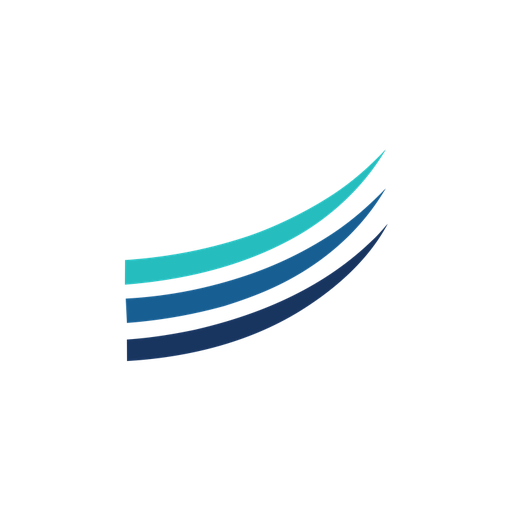
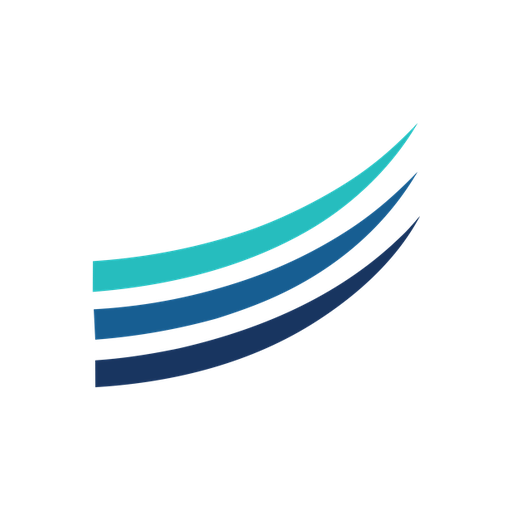
Auf dem Startbildschirm steht jetzt Curamus Medical
Beim Ablegen auf dem Handy hiess die App "Patientenbereich" - der Name des
Bereichs statt der Praxis. Jetzt heisst sie ueberall Curamus Medical, mit
einer Beschreibung, die auch etwas sagt: mobile Physiotherapie in Nuernberg,
Termine, Rezept, Trainingsplan, Nachrichten und die Live-Anfahrt.

Die Bildmarke war im App-Symbol zu klein. Sie fuellt jetzt 90 Prozent der
Kante statt gut 70; beim maskable-Symbol bleibt sie in der sicheren Zone,
weil Android rund beschneidet. Alle vier Groessen neu erzeugt.

Neu an Metadaten: Vorschaubild fuer geteilte Links (1200x630, im Markenlook
und in der Hausschrift gesetzt), Open Graph und Twitter Card, kanonische
Adresse, Schlagworte, Herausgeber, Kategorie Gesundheit, Themenfarbe getrennt
fuer helle und dunkle Systeme.

Zwei bewusste Entscheidungen: Der Bereich steht auf noindex - ein
persoenlicher Bereich mit Gesundheitsdaten gehoert nicht in Suchmaschinen,
die Startseite von curamus-medical.de bleibt davon unberuehrt. Und kein
maximumScale, damit die Zielgruppe 70+ weiter zoomen kann.

Dazu Schnellzugriffe beim langen Druecken auf das Symbol: Termine, Training,
Nachrichten. Und Telefonnummern werden nicht mehr automatisch verlinkt, das
zerschoss auf dem iPhone die Darstellung von Terminen und Anschriften.

Claude-Session: https://claude.ai/code/session_015crEXq5GjAPSz1wYpUbYwK

diff --git a/src/app/layout.tsx b/src/app/layout.tsx
@@ -9,21 +9,99 @@ const poppins = Poppins({
   variable: "--font-poppins",
 });
 
+/** Eine Stelle für die Adresse – Vorschaubilder brauchen absolute Links. */
+const ADRESSE = "https://app.curamus-medical.de";
+
+const BESCHREIBUNG =
+  "Der persönliche Bereich für Patientinnen und Patienten von Curamus Medical, " +
+  "der mobilen Physiotherapie in Nürnberg: Termine vereinbaren, Rezept einreichen, " +
+  "Trainingsplan ansehen, mit der Praxis schreiben – und live sehen, wann der " +
+  "Therapeut zum Hausbesuch eintrifft.";
+
 export const metadata: Metadata = {
-  title: { default: "Curamus Medical – Patientenbereich", template: "%s · Curamus Medical" },
-  description:
-    "Ihr persönlicher Bereich bei Curamus Medical: Termine anfragen, Trainingsplan ansehen und Nachrichten an Ihren Therapeuten senden.",
+  metadataBase: new URL(ADRESSE),
+  applicationName: "Curamus Medical",
+  title: { default: "Curamus Medical", template: "%s · Curamus Medical" },
+  description: BESCHREIBUNG,
+  keywords: [
+    "Physiotherapie",
+    "Hausbesuch",
+    "Nürnberg",
+    "mobile Physiotherapie",
+    "Termin vereinbaren",
+    "Trainingsplan",
+    "Curamus Medical",
+  ],
+  authors: [{ name: "Curamus Medical", url: "https://www.curamus-medical.de" }],
+  creator: "Curamus Medical",
+  publisher: "Curamus Medical · Charles Obinna Mba",
+  category: "health",
   manifest: "/manifest.webmanifest",
+  alternates: { canonical: "/" },
+
+  // Persönlicher Bereich mit Gesundheitsdaten: gehört nicht in Suchmaschinen.
+  // Die Startseite von curamus-medical.de bleibt davon unberührt.
+  robots: {
+    index: false,
+    follow: false,
+    nocache: true,
+    googleBot: { index: false, follow: false },
+  },
+
+  // Telefonnummern und Adressen nicht automatisch verlinken – das zerschießt
+  // sonst die Darstellung von Terminen und Anschriften auf dem iPhone.
+  formatDetection: { telephone: false, email: false, address: false },
+
+  openGraph: {
+    type: "website",
+    locale: "de_DE",
+    siteName: "Curamus Medical",
+    url: ADRESSE,
+    title: "Curamus Medical – Physiotherapie, die zu Ihnen nach Hause kommt",
+    description: BESCHREIBUNG,
+    images: [
+      {
+        url: "/og-bild.jpg",
+        width: 1200,
+        height: 630,
+        alt: "Curamus Medical – Physiotherapie, die zu Ihnen nach Hause kommt",
+      },
+    ],
+  },
+
+  twitter: {
+    card: "summary_large_image",
+    title: "Curamus Medical – Physiotherapie, die zu Ihnen nach Hause kommt",
+    description: BESCHREIBUNG,
+    images: ["/og-bild.jpg"],
+  },
+
+  // Auf dem Startbildschirm steht der Name der Praxis, nicht der des Bereichs
+  appleWebApp: {
+    capable: true,
+    title: "Curamus Medical",
+    statusBarStyle: "default",
+  },
+
   icons: {
-    icon: "/icon-192.png",
-    apple: "/icon-180.png",
+    icon: [
+      { url: "/icon-192.png", sizes: "192x192", type: "image/png" },
+      { url: "/icon-512.png", sizes: "512x512", type: "image/png" },
+    ],
+    shortcut: "/icon-192.png",
+    apple: [{ url: "/icon-180.png", sizes: "180x180", type: "image/png" }],
   },
 };
 
 export const viewport: Viewport = {
   width: "device-width",
   initialScale: 1,
-  themeColor: "#1f315b",
+  // Kein maximumScale: Die Zielgruppe ist 70+, Zoom muss möglich bleiben.
+  themeColor: [
+    { media: "(prefers-color-scheme: light)", color: "#1f315b" },
+    { media: "(prefers-color-scheme: dark)", color: "#16223f" },
+  ],
+  colorScheme: "light",
 };
 
 export default function RootLayout({ children }: { children: React.ReactNode }) {

diff --git a/src/app/manifest.ts b/src/app/manifest.ts
@@ -1,21 +1,55 @@
 import type { MetadataRoute } from "next";
 
+/**
+ * Angaben für „Zum Startbildschirm hinzufügen“. Auf dem Startbildschirm soll
+ * der Name der Praxis stehen, nicht der des Bereichs – deshalb „Curamus
+ * Medical“ statt „Patientenbereich“.
+ */
 export default function manifest(): MetadataRoute.Manifest {
   return {
-    name: "Curamus Medical – Patientenbereich",
-    short_name: "Curamus",
+    id: "/",
+    name: "Curamus Medical",
+    short_name: "Curamus Medical",
     description:
-      "Termine anfragen, Trainingsplan ansehen und Nachrichten an Ihren Therapeuten senden.",
+      "Der persönliche Bereich für Patientinnen und Patienten von Curamus Medical, " +
+      "der mobilen Physiotherapie in Nürnberg: Termine vereinbaren, Rezept einreichen, " +
+      "Trainingsplan ansehen, mit der Praxis schreiben – und live sehen, wann der " +
+      "Therapeut zum Hausbesuch eintrifft.",
     start_url: "/",
+    scope: "/",
     display: "standalone",
-    background_color: "#1f315b",
+    orientation: "portrait",
+    background_color: "#f2f7fa",
     theme_color: "#1f315b",
     lang: "de",
+    dir: "ltr",
+    categories: ["health", "medical", "lifestyle"],
     icons: [
-      { src: "/icon-192.png", sizes: "192x192", type: "image/png" },
-      { src: "/icon-512.png", sizes: "512x512", type: "image/png" },
+      { src: "/icon-192.png", sizes: "192x192", type: "image/png", purpose: "any" },
+      { src: "/icon-512.png", sizes: "512x512", type: "image/png", purpose: "any" },
       // Eigene Datei mit mehr Rand: Android beschneidet maskable-Icons rund
       { src: "/icon-maskable-512.png", sizes: "512x512", type: "image/png", purpose: "maskable" },
+    ],
+    // Langes Drücken auf das Symbol führt direkt zum gewünschten Bereich
+    shortcuts: [
+      {
+        name: "Termin vereinbaren",
+        short_name: "Termine",
+        description: "Freie Zeiten ansehen und einen Hausbesuch buchen",
+        url: "/app/termine",
+      },
+      {
+        name: "Trainingsplan",
+        short_name: "Training",
+        description: "Die Übungen für heute ansehen und abhaken",
+        url: "/app/plan",
+      },
+      {
+        name: "Nachricht schreiben",
+        short_name: "Nachrichten",
+        description: "Direkt an die Praxis schreiben",
+        url: "/app/chat",
+      },
     ],
   };
 }
